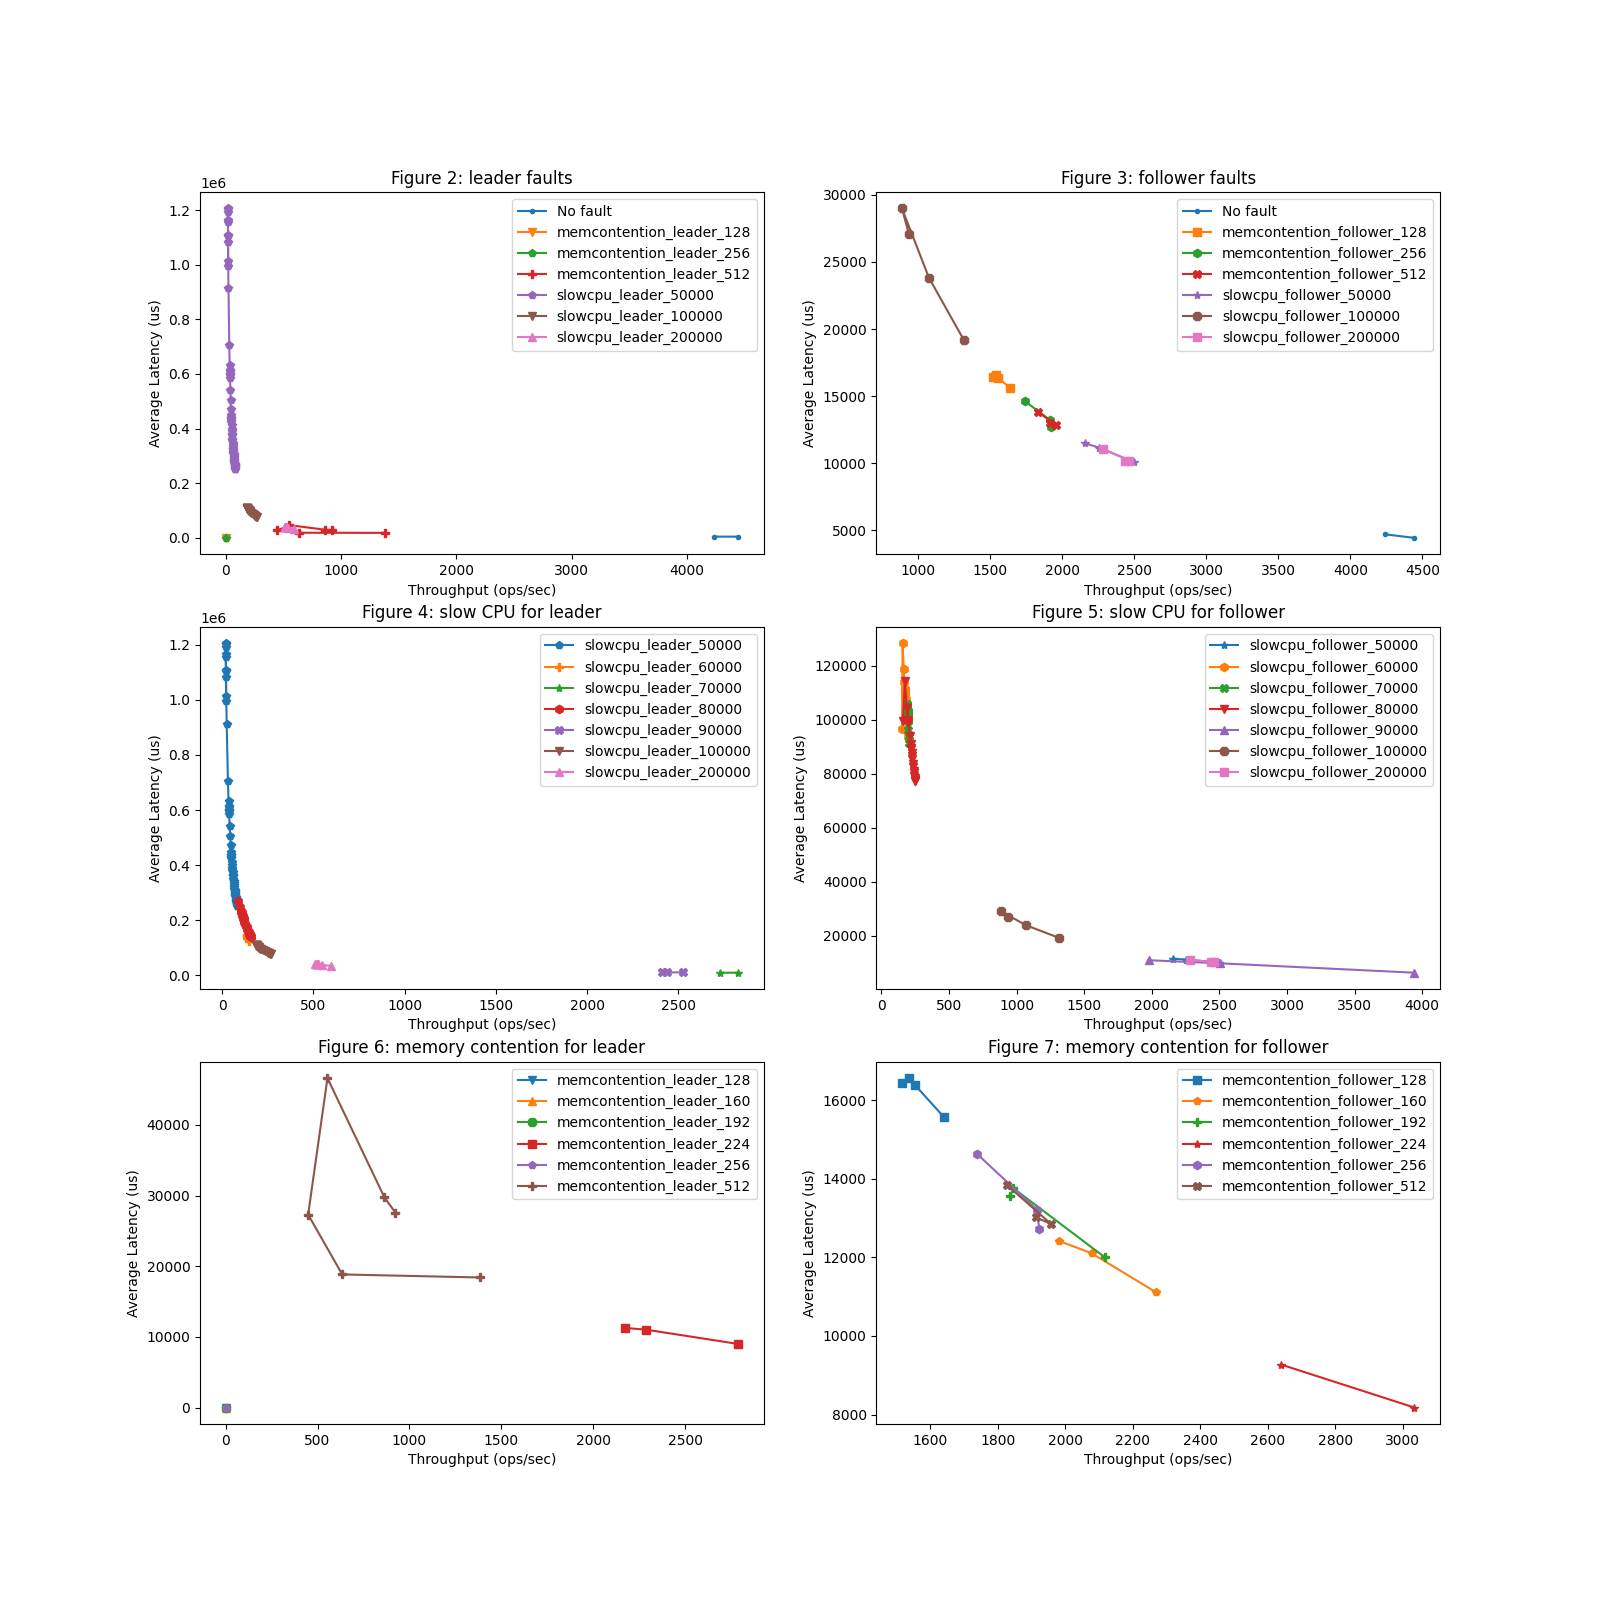
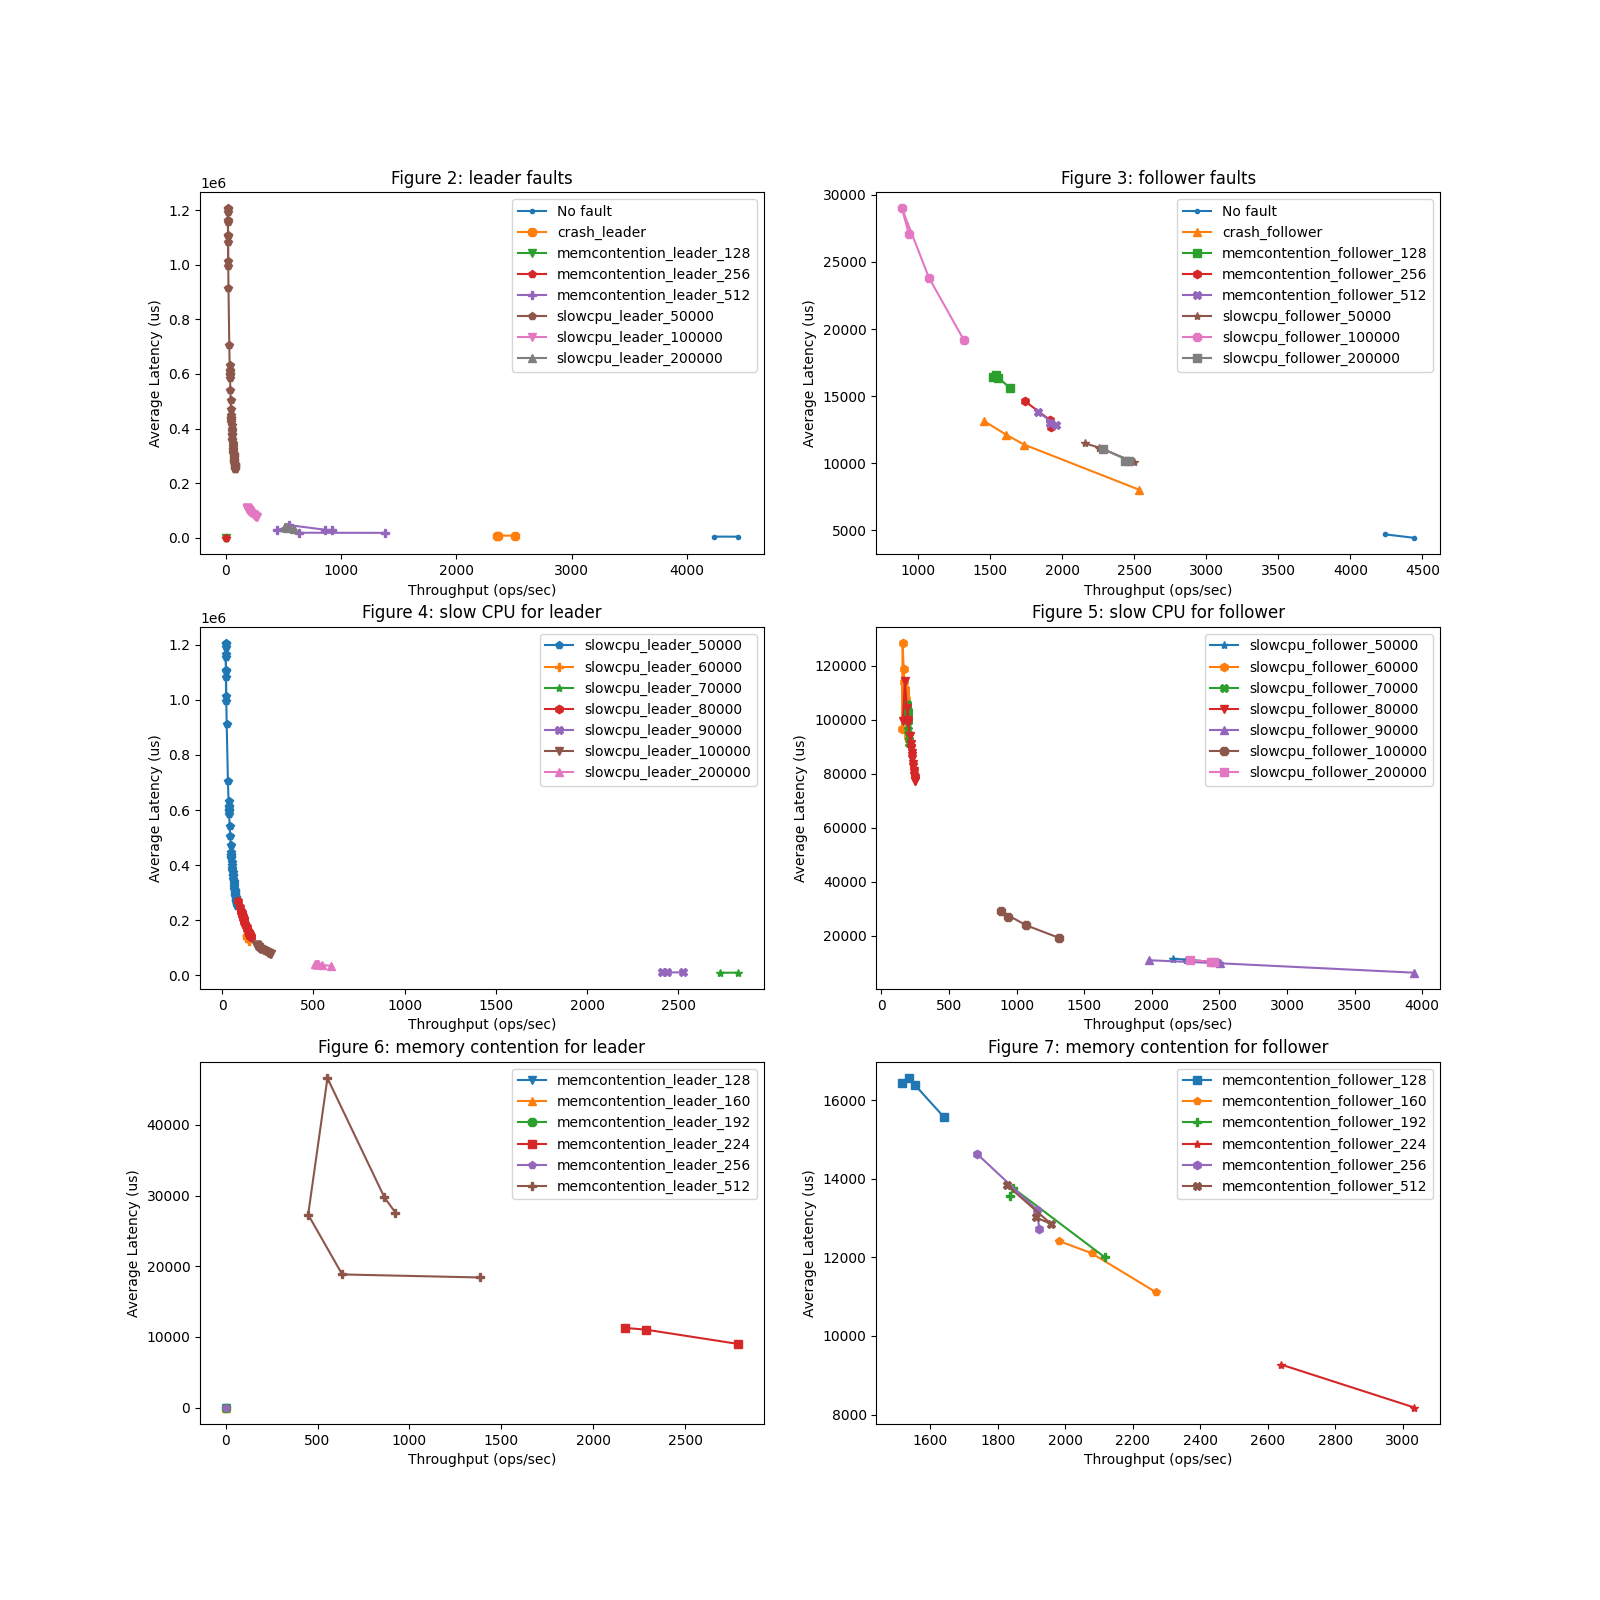
add crash to graph and finalize report

diff --git a/graph.py b/graph.py
@@ -57,7 +57,7 @@ def plot_baseline():
     plt.savefig("assets/baseline.png")
     plt.clf()
 
-initial_fault_plot = ["128", "256", "512", "50000", "100000", "200000"]
+initial_fault_plot = ["128", "256", "512", "50000", "100000", "200000", "crash"]
 
 def plot_fault():
     plt.rcParams["figure.figsize"] = (16, 16)
@@ -78,6 +78,11 @@ def plot_fault():
         if fault == "nofault":
             for i in range(2):
                 axs[0, i].plot(x, y, marker=".", linestyle="-", label="No fault")
+
+        # if "leader" in fault and "crash" in fault:
+        #     axs[0, 0].plot(x, y, marker=markers[i % 9], linestyle="-", label=fault)
+        # if "follower" in fault and "crash" in fault:
+        #     axs[0, 1].plot(x, y, marker=markers[i % 9], linestyle="-", label=fault)
         
         if "leader" in fault and any(num in fault for num in initial_fault_plot):
             axs[0, 0].plot(x, y, marker=markers[i % 9], linestyle="-", label=fault)
@@ -109,7 +114,8 @@ def plot_fault():
     axs[2, 0].set_title("Figure 6: memory contention for leader")
     axs[2, 1].set_title("Figure 7: memory contention for follower")
 
-    axs[0, 0].get_figure().savefig('assets/fault.png')
+    # axs[0, 0].get_figure().savefig('assets/fault.png')
+    axs[0, 0].get_figure().savefig('assets/crash.png')
 
 # plot_baseline()
 plot_fault()

diff --git a/report.md b/report.md
@@ -3,34 +3,20 @@
 <center>Shuyang Ji (sji15)</center>
 
 #### 1. Select a Quorum System
-
 **Q1: What is your quorum system of choice?**
-
 <span style="color: green">TiKV, a distrbuted key-value stroage that relies on the Multi-Raft provided by Raftstore for data replicating and strong consistency, and RocksDB for persistence. </span>
 
-
-
 #### **2. Run The Quorum System and Measure The Baseline Performance**
-
 **Q2: Please describe your configuration.**
-<span style="color: green">The experiments are run on a Ubuntu VM within MacOS with 8 cores CPU (M1 ARM) and 8 GB of memory.</span>
-
+<span style="color: green">The experiments are run on a Ubuntu VM within a MacOS with 8 cores CPU (M1 ARM) and 8 GB of memory.</span>
 <span style="color: green">The psedo-distributed setup will contain 1 PD (Placement driver, cluster manager of TiKV) node and 3 TiKV nodes.</span> 
-
 <span style="color: green">(3-node is discouraged but due to limitation of computational resources, it is nearly impossible to accomodate more nodes.)</span>
-
-<span style="color: green">I use go-ycsb (the Golang port of YCSB) as the client to measure performance.</span>
-
+<span style="color: green">I use go-ycsb (the Golang port of YCSB, with nature support for TiKV) as the client to measure performance.</span>
 **Q3: What is your client workload?**
-
 <span style="color: green">I use a client workload of 10000 record count, 100000 operation count and 0.5/0.5 read/update proportion. Update operations are used for plotting and analysis.</span>
-
-<span style="color: green">Based on the experiment results of 1-32 threads (see Q4), 26 hits the max throughput.</span> 
-
-<span style="color: green">I conclude the bottleneck is the CPU as it exceeded the 100% CPU utilization.</span> 
-
+<span style="color: green">Based on an experiment results of 1-32 threads (see Q4), 26 hits the max throughput. Due to the nondeterminism of concurrency and CPU instruction reordering, the thread number that hits max throughput may not always be the same but we will just use 26 throughout this experiment.</span>
+<span style="color: green">I conclude the bottleneck is the CPU as it exceeded the 100% CPU utilization.</span>
 **Q4: What is your baseline performance? Plot the throughput-latency figure.**
-
 ![](assets/baseline.png)
 
 <div style="page-break-after: always;"></div>
@@ -41,11 +27,11 @@
 
 <span style="color: green"><b>Crash:</b> By killing the process of targeted node.</span> 
 
-<span style="color: green"><b>Slow CPU:</b> By configuring cgroups (`cpu.cfs_quota_us` and `cpu.cfs_period_us`) to limit CPU usage of the process of targeted node in a given amount of time.</span> 
+<span style="color: green"><b>Slow CPU:</b> By configuring cgroups (`cpu.cfs_quota_us` and `cpu.cfs_period_us`) to limit CPU usage of the process of targeted node in a given amount of time.</span> [Ref 3]
 
 <span style="color: green">Initially, I limited a node to use CPU for 0.05, 0.1 and 0.2 seconds out of every 1 second.</span>
 
-<span style="color: green"><b>Memory contention:</b> By configuring cgroups to limit memory usage of the process of targeted node.</span> 
+<span style="color: green"><b>Memory contention:</b> By configuring cgroups to limit memory usage of the process of targeted node.</span> [Ref 4]
 
 <span style="color: green">Initially, I limited a node to use 128/256/512 MB memory.</span>
 
@@ -53,13 +39,13 @@
 
 **Q6: Please plot the performance with faults on the** **leader** **node and compare it with the baseline performance.**
 
-See Figure 2.
+<span style="color: green">See Figure 2.</span>
 
 <div style="page-break-after: always;"></div>
 
 **Q7: Please explain the above results. Is it expected? Why or why not?**
 
-<span style="color: green">It is observed that killing the leader node will only slightly affect the operations. This is consistent with Raft and TiKV's fault tolerance design.</span>
+<span style="color: green">It is observed that killing the leader node will only increase the latency (twice as no fault) and reduce the throughput (50% of no fault) of update operations. This is consistent with Raft and TiKV's fault tolerance design.</span>
 
 <span style="color: green">For slow CPU, initially, I limited a node to use CPU for 0.05, 0.1 and 0.2 seconds out of every 1 second. It is observed that operations are slowed down but can still be processed. When the leader can only use the CPU up to 0.1s out of 1s, the throughput is 16% of the benchmark performance. In particular, when the leader is limited to use CPU 0.05s out of 1s, the throughput is extremely close to 0 and the latency is at the scale of $10^5-10^6$ microseconds. Additional quota values between 0.05 and 0.1 seconds are picked in Q10 for further experiments.</span> 
 
@@ -77,21 +63,21 @@ See Figure 2.
 
 <span style="color: green">(Configurations here are the same as Q7)</span>
 
-<span style="color: green">It is observed that killing a follower node will only slightly affect the operations. This is consistent with Raft and TiKV's fault tolerance design.</span>
+<span style="color: green">It is observed that killing the leader node will only increase the latency (4 times as no fault) and reduce the throughput (50% of no fault) of update operations. The overall observation is consistent with Raft and TiKV's fault tolerance design. But the latency being 4 times as no fault is unexpected as I thought killing leader will have a greater impact on latency of update operations.</span>
 
-<span style="color: green">For slow CPU, it is observed that when a follower can use CPU up to 0.2s out of 1s, the throughput is 60% of the benchmark performance and the latency is twice. The impact seems less compared to slow CPU on the leader.</span>
+<span style="color: green">For slow CPU, it is observed that when a follower can use CPU up to 0.2s out of 1s, the throughput is 60% of the benchmark performance and the latency is twice. The impact seems less compared to slow CPU on the leader.</span> 
 
-<span style="color: green">We obtain an initial conclusion that for either slow CPU or memory contention on follower, operations are slowed down but can still be processed. The performance degradation of these faults on follower is less than leader.</span>
+<span style="color: green">For memory contention, setting a 128MB memory limit to a follower will result in $\frac{1}{3}$ throughput and 3 times latency compared to benchmark performance. This is different from memory contention on leader and won't cause exceptions.</span> 
+
+<span style="color: green">We obtain an initial conclusion that for killing the follower, the performance degradation is surprisingly greater than leader in terms of latency. For either slow CPU or memory contention on follower, operations are slowed down but can still be processed.</span>
 
 **Q10: For the slow CPU and memory contention, could you vary the level of slowness/contention and report the results?**
 
-Following Q7 and Q9, further quota values are picked for further experiments. For slow CPU, values between 0.1s and 0.05s with a step decrease of 0.01s (out of 1s) are picked. For memory contention, values between 256MB and 512MB with a step decrease of 32MB are picked.
+<span style="color: green">Following Q7 and Q9, further quota values are picked for further experiments. For slow CPU, values between 0.1s and 0.05s with a step decrease of 0.01s (out of 1s) are picked. For memory contention, values between 256MB and 512MB with a step decrease of 32MB are picked.</br>For slow CPU on leader, from Figure 4 we can further confirm our previous conclusion that operations are slowed down but can still be processed. Generally, the lower CPU quota will lead to higher latency and lower throughput. But we also found some outliers that when leader can use CPU up to 0.09 or 0.07s out of 1s, the throughput is higher than that of 0.2s out of 1s. Repeating the experiment will usually obtain different results and we cannot get a straightly negative correlation due to flakiness.</br>For memory contention on leader, the result can also be a bit flaky. In most runs (4 out of 5 as an rough estimate), 224MB memory limit of a follower will not affect update operations. However, 1 out of 5 run will cause `mark store's regions need be refill` exception and result in very low throughput and high latency. Based on about 20 experiments conducted, 256MB does not produce operation failures. We can unsafely say that 256MB is an "approximately stable minimal memory limit" for the TiKV leader to process update operations without failures, which does not mean the limit will never produce no failures. It may be worthwhile to calculate the successful rate of a given memory quota over a large number of experiments, which can be further investigated.</br>Similarly, for slow CPU or memory contention on follower, we follow the same observation that generally the lower CPU quota and stricter memory contention will only lead to higher latency and lower throughput. But it is not a straightly negative correlation. I conjecture that this is due to the small scale of this experiment, which resulted in imbalance of storage. If there are more nodes, the results may be a more straightly negative correlation.</span>
 
-For slow CPU on leader, from Figure 4 we can further confirm our previous conclusion that operations are slowed down but can still be processed. We found some outliers that when leader can use CPU up to 0.09 or 0.07s out of 1s, the throughput is higher than that of 0.2s out of 1s. Repeating the experiment will usually not get a straightly negative correlation due to flakiness. I conjecture that this is due to the small scale of this experiment, which resulted in imbalance of storage. If there are more nodes, the result may be a more straightly negative correlation.
 
-For memory contention on leader, the result can also be a bit flaky. In one run, 224MB memory limit of a follower will not affect update operations. However, 256 MB will cause `mark store's regions need be refill` exception and result in very low throughput and high latency.
 
-We are not able to find a specific minimal memory limit for the TiKV leader to process update operations without failures, but only to calculate the successful rate of a given memory quota, which can be further investigated.
+
 
 
 
